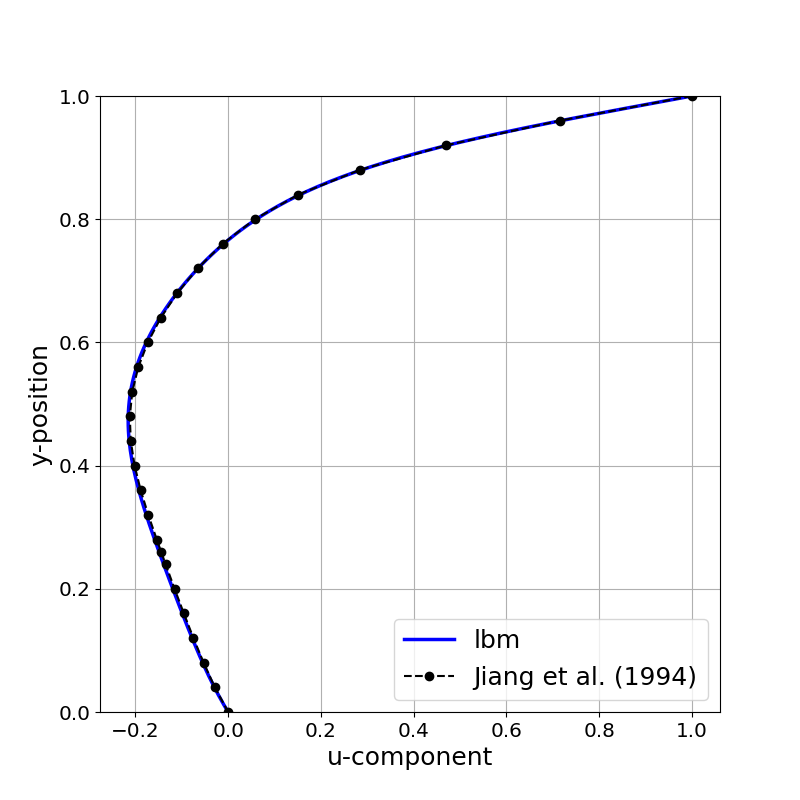
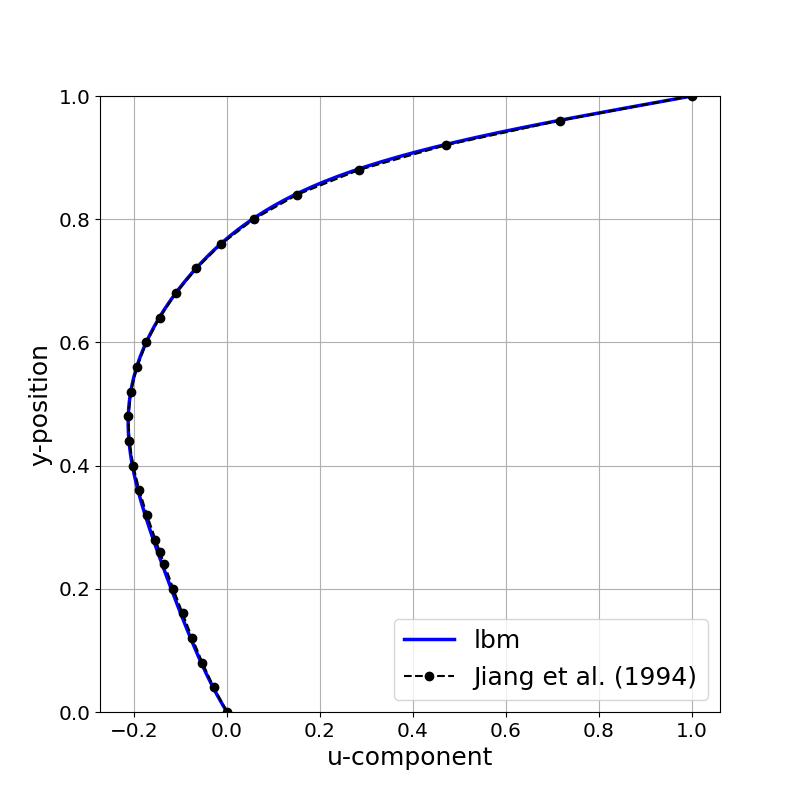
Fix plotting indexing

diff --git a/scripts/plot.py b/scripts/plot.py
@@ -1,17 +1,22 @@
 import numpy as np
 import matplotlib.pyplot as plt
 import sys
+import glob
 
 dir = sys.argv[1];
-frame = int(sys.argv[2]);
-NX = int(sys.argv[3]);
-NY = int(sys.argv[4]);
-NZ = int(sys.argv[5]);
-umax = float(sys.argv[6]);
-cuda = int(sys.argv[7]);
-re = float(sys.argv[8]);
-fn_data = sys.argv[9];
-fn_out = sys.argv[10];
+NX = int(sys.argv[2]);
+NY = int(sys.argv[3]);
+NZ = int(sys.argv[4]);
+umax = float(sys.argv[5]);
+cuda = int(sys.argv[6]);
+re = float(sys.argv[7]);
+fn_data = sys.argv[8];
+
+files = glob.glob1(dir,"*.bin");
+
+frame = 0;
+for file in files:
+    frame = max(frame,int(file.split(".")[0].split("_")[1]));
 
 data = np.loadtxt(fn_data, delimiter=',');
     
@@ -26,11 +31,19 @@ if (cuda) :
 else:
     u = np.reshape(u, (NY,NX,NZ));
     
-u = u[1:-1,1:-1,1:-1];
+u = u[1:-1,1:-1,1:-1] / umax;
                
 ucenter = np.zeros(NY);
 ucenter[NY-1] = 1.0; 
-ucenter[1:-1] = 0.25*(u[:,NX//2,NZ//2] + u[:,NX//2 + 1,NZ//2] + u[:,NX//2,NZ//2 + 1] + u[:,NX//2 + 1,NZ//2 + 1]) / umax;
+
+if ((NX % 2 == 0) and (NZ % 2 == 0)):
+    j = (NX - 2)//2 - 1;
+    k = (NZ - 2)//2 - 1;
+    ucenter[1:-1] = 0.25*(u[:,j,k] + u[:,j + 1,k] + u[:,j + 1,k + 1] + u[:,j,k + 1]);
+else: 
+    j = (NX - 1)//2 - 1
+    k = (NZ - 1)//2 - 1;    
+    ucenter[1:-1] = u[:,j,k];
 
 y = np.zeros(NY);
 y[NY-1] = 1.0;
@@ -54,5 +67,5 @@ plt.ylabel('y-position', fontsize=18);
 plt.xlabel('u-component',fontsize=18);
 plt.ylim([0, 1]);
 plt.legend(['lbm', 'Jiang et al. (1994)'],fontsize=18)
-fig1.savefig(fn_out + ".png");
+fig1.savefig("re" + str(int(re)) + "_" + str(NY) + "x" + str(NX) + "x" + str(NZ) + ".png");
 

diff --git a/README.md b/README.md
@@ -27,7 +27,7 @@ For an OpenMP build, the app is `lbm.host`. Similarly, `lbm.cuda` for a Cuda bui
 
 Results can be plotted using `plot.py` as follows
 ```bash
-python3 ../scripts/plot.py "output" frame NX NY NZ umax cuda_flag reynolds "jiang_data.csv" "image_name"
+python3 ../scripts/plot.py "output" NX NY NZ umax cuda_flag reynolds "jiang_data.csv"
 ```
 The `cuda_flag` is a 1 or 0 that indicates whether to use column-major (Cuda/Fortran) or row-major (C/C++) data format.
 
